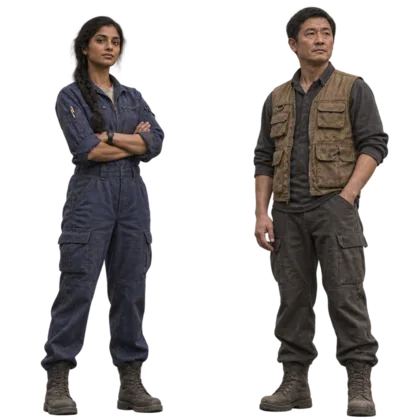
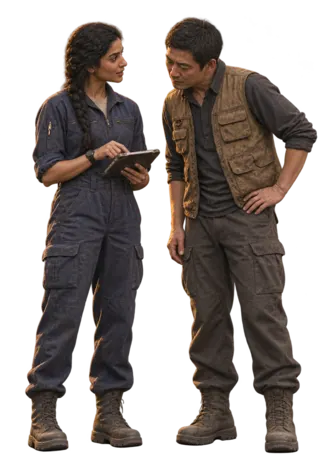
Stage conversational crew and simplify the Hangar loadout

diff --git a/index.html b/index.html
@@ -12,7 +12,7 @@
 <link rel="icon" type="image/png" href="rift-192.png">
 <title>Rift Runner</title>
 <meta name="description" content="Pilot a low hovercraft through a single test arena. Push cones and try the manual blaster.">
-<link rel="stylesheet" href="style.css?v=261">
+<link rel="stylesheet" href="style.css?v=262">
 <script src="./sound-activation.js?v=1" defer></script>
 <script src="blaster-sfx.js" defer></script>
 <script src="ballistic-sfx.js?v=13" defer></script>
@@ -371,20 +371,9 @@
  <button type="button" id="hangar-preview-select" class="fit-shop-link" hidden>Select fighter</button>
  <a id="hangar-preview-rent" class="fit-shop-link" hidden>Rent for Free Flight</a>
 </div>
-<details class="hangar-fighter-concepts" id="hangar-fighter-concepts">
- <summary>Fighter concepts</summary>
- <p>Buy either fighter at the Carrier Shop. Each keeps its own fittings and repair state.</p>
- <figure>
-  <img src="./stocky-light-fighter-concept.webp" width="960" height="320" alt="A compact, broad-shouldered light fighter with a recessed cockpit" loading="lazy" decoding="async">
-  <figcaption>Stocky-2 Light Fighter</figcaption>
- </figure>
- <figure>
-  <img src="./bastion-9-fleet-fighter-concept.webp" width="960" height="320" alt="The Bastion-2 light fleet fighter with a twin-boom frame" loading="lazy" decoding="async">
-  <figcaption>Bastion-2 Fleet Fighter</figcaption>
- </figure>
-</details>
-<section class="hangar-loadout" id="hangar-player-loadout" aria-labelledby="loadout-title" hidden>
-<div class="loadout-head"><h3 id="loadout-title">Loadout<small id="fit-hull-stat"></small><small id="fit-weight-stat"></small></h3><p id="fit-build-status" class="fit-build-status" role="status">Checking flight readiness…</p><div class="fit-service-links"><a class="fit-shop-link" href="./carrier-shop.html" id="fit-shop-link">Carrier Shop</a><button class="fit-repair-link" id="fit-repair-direct" type="button" hidden>Repair hull · Free</button></div><details id="fit-details" class="fit-guide"><summary>Part details</summary><p id="hangar-note" class="hangar-note">Fit an engine, generator, reserve cell and primary weapon to launch. Secondary weapon and shield are optional. Heavier fits turn and brake more slowly.</p><p id="fit-gimbal-note" class="hangar-note" hidden>Two Sparrow S2s come fitted from the factory. The Size 2 wing mounts can swivel toward your aim.</p></details></div>
+<details class="hangar-loadout" id="hangar-player-loadout" hidden>
+<summary id="loadout-title">Loadout</summary>
+<div class="loadout-head"><h3><small id="fit-hull-stat"></small><small id="fit-weight-stat"></small></h3><p id="fit-build-status" class="fit-build-status" role="status">Checking flight readiness…</p><div class="fit-service-links"><a class="fit-shop-link" href="./carrier-shop.html" id="fit-shop-link">Carrier Shop</a><button class="fit-repair-link" id="fit-repair-direct" type="button" hidden>Repair hull · Free</button></div><details id="fit-details" class="fit-guide"><summary>Part details</summary><p id="hangar-note" class="hangar-note">Fit an engine, generator, reserve cell and primary weapon to launch. Secondary weapon and shield are optional. Heavier fits turn and brake more slowly.</p><p id="fit-gimbal-note" class="hangar-note" hidden>Two Sparrow S2s come fitted from the factory. The Size 2 wing mounts can swivel toward your aim.</p></details></div>
 <div class="hangar-slots" id="fighter-fit-grid">
 <div class="fit-slot"><label class="fit-name" for="fit-shield"><span aria-hidden="true">01</span> Shield</label><select id="fit-shield" aria-describedby="fit-shield-stat"><option value="" selected>None</option><option id="fit-aegis-option" value="aegis-s3" disabled>Aegis S-3 Shield Generator</option></select><small id="fit-shield-stat">Buy Aegis at the Carrier Shop · 200 credits</small></div>
 <div class="fit-slot"><label class="fit-name" for="fit-primary"><span aria-hidden="true">04</span> <span id="fit-primary-label">Primary Size 3 weapon</span></label><select id="fit-primary" aria-describedby="fit-primary-stat"><option value="">None</option><option value="sparrow-s2" hidden>Sparrow S2 Gimbal Laser</option><option value="blaster">Sterling C.32 Laser</option><option value="ballistic">A-Alkine Ballistic Repeater</option><option value="ak77">AK77 Gatling Ballistic</option></select><button id="fit-primary-picture" class="fit-weapon-trigger" type="button" aria-expanded="false" aria-controls="fit-weapon-picker" aria-describedby="fit-primary-stat" hidden><img id="fit-primary-image" alt="" width="96" height="52" decoding="async" hidden><span id="fit-primary-empty" class="fit-weapon-empty" aria-hidden="true" hidden>—</span><span id="fit-primary-title"></span><span class="fit-weapon-chevron" aria-hidden="true">⌄</span></button><small id="fit-primary-stat"></small></div>
@@ -405,7 +394,7 @@
 </div>
 </section>
 <p id="fit-status" class="fit-status" role="status" aria-live="polite">Optional mounts can be left empty.</p>
-</section>
+</details>
  <button id="hangar-loaner" class="hangar-back" type="button" aria-controls="hangar-cockpit" hidden>Test a loaner fighter</button>
 </div>
 <section id="hangar-cockpit" class="hangar-cockpit" aria-labelledby="cockpit-title" hidden>

diff --git a/carrier-crew.css b/carrier-crew.css
@@ -248,39 +248,37 @@ label.formation-tile:hover{border-color:#97cce4}
 .mission-order li.unassigned{color:#adc0c9}
 @media(min-width:460px){.mission-order{columns:2;column-gap:2.75rem}.mission-order li{break-inside:avoid}}
 
-/* Crew feet stay on the open deck. The ambient layer accepts no taps. */
+/* Block the cast on clear floor, separate from the player and touch controls. */
 .crew-ambient{
- position:absolute;z-index:1;inset-inline-start:var(--crew-x,73%);inset-block-end:var(--crew-floor,32%);
- translate:-50% 0;width:clamp(102px,35vw,304px);height:min(34dvh,280px);object-fit:contain;object-position:center bottom;
- filter:drop-shadow(1px 3px 4px #05090b90);pointer-events:none;user-select:none;
+ position:absolute;z-index:1;inset-inline-start:var(--crew-x,72%);inset-block-end:var(--crew-floor,22%);
+ translate:-50% 0;width:min(var(--crew-width,49vw),40dvh,335px);height:auto;object-fit:contain;object-position:center bottom;
+ filter:drop-shadow(2px 4px 5px #05090b8a);pointer-events:none;user-select:none;
 }
-.room[data-room="Crew Berths"]{--crew-x:74%;--crew-floor:38%}
-.room[data-room="Common Room"]{--crew-x:70%;--crew-floor:31%}
-@media(orientation:portrait){
- /* Give this foreground pair more presence while keeping their boot line fixed. */
- .room[data-room="Common Room"]>.crew-ambient{width:clamp(137px,47.25vw,365px)}
-}
-.room[data-room="Galley"]{--crew-x:73%;--crew-floor:39%}
-.room[data-room="Observation Lounge"]{--crew-x:42%;--crew-floor:28%}
-.room[data-room="Refuelling Bay"]{--crew-x:39%;--crew-floor:27%}
-.crew-visitor.control{position:absolute;z-index:2;inset-inline-start:44%;inset-block-end:29%;translate:-50% 0;display:grid;gap:3px;justify-items:center;width:clamp(82px,29vw,224px);padding:2px;border:0;border-radius:9px;background:none;text-align:center;text-shadow:0 2px 3px #000,0 0 7px #000}
-#crew-visitor-sera{inset-inline-start:50%;inset-block-end:29%}
+.room[data-room="Crew Berths"]{--crew-x:75%;--crew-floor:22%;--crew-width:43vw}
+.room[data-room="Common Room"]{--crew-x:72%;--crew-floor:20%;--crew-width:50vw}
+.room[data-room="Galley"]{--crew-x:75%;--crew-floor:22%;--crew-width:43vw}
+.room[data-room="Observation Lounge"]{--crew-x:71%;--crew-floor:18%;--crew-width:51vw}
+.room[data-room="Refuelling Bay"]{--crew-x:69%;--crew-floor:18%;--crew-width:48vw}
+/* The named wing takes the foreground when ready. Don't superimpose another pair. */
+.crew-launch-wing:not([hidden])~.crew-ambient{display:none}
+.crew-visitor.control{position:absolute;z-index:2;inset-inline-start:39%;inset-block-end:23%;translate:-50% 0;display:grid;gap:3px;justify-items:center;width:clamp(78px,24vw,194px);padding:2px;border:0;border-radius:9px;background:none;text-align:center;text-shadow:0 2px 3px #000,0 0 7px #000}
+#crew-visitor-sera{inset-inline-start:40%;inset-block-end:23%}
 .crew-visitor.control:hover{background:none;filter:brightness(1.12)}
-.crew-visitor img{display:block;width:100%;height:clamp(100px,40dvh,318px);object-fit:contain;object-position:center bottom;pointer-events:none}
+.crew-visitor img{display:block;width:100%;height:clamp(110px,36dvh,310px);object-fit:contain;object-position:center bottom;pointer-events:none}
 .crew-visitor span{padding-inline:4px;font-size:clamp(.69rem,2.6vw,.88rem);line-height:1.3}
-/* Wider rooms use the original camera crops, so their foreground floor begins lower. */
+/* Landscape art keeps its own floor line and separates named actors. */
 @media(orientation:landscape){
- .room[data-room="Crew Berths"]{--crew-x:62%;--crew-floor:22%}
- .room[data-room="Common Room"]{--crew-x:71%;--crew-floor:19%}
- .room[data-room="Galley"]{--crew-x:42%;--crew-floor:14%}
- .room[data-room="Observation Lounge"]{--crew-x:47%;--crew-floor:25%}
- .room[data-room="Refuelling Bay"]{--crew-x:29%;--crew-floor:19%}
- .crew-visitor.control{inset-inline-start:47%;inset-block-end:25%}
+ .crew-ambient{width:min(34dvh,28vw,280px)}
+ .room[data-room="Crew Berths"]{--crew-x:70%;--crew-floor:17%}
+ .room[data-room="Common Room"]{--crew-x:74%;--crew-floor:19%}
+ .room[data-room="Galley"]{--crew-x:68%;--crew-floor:15%}
+ .room[data-room="Observation Lounge"]{--crew-x:63%;--crew-floor:15%}
+ .room[data-room="Refuelling Bay"]{--crew-x:57%;--crew-floor:14%}
+ .crew-visitor.control,#crew-visitor-sera{inset-inline-start:44%;inset-block-end:21%}
 }
 @media(max-height:480px) and (orientation:landscape){
- .crew-ambient{width:clamp(76px,18vw,185px)}
- .crew-visitor.control{width:clamp(65px,18vw,145px)}
- .crew-visitor img{height:min(39dvh,176px)}
+ .crew-visitor.control{width:min(20vw,155px)}
+ .crew-visitor img{height:min(37dvh,176px)}
 }
 .visitor-chat>img{display:block;float:inline-end;margin:0 0 8px 12px;object-fit:contain;object-position:center top}
 .visitor-chat>h2{margin:4px 0 8px}

diff --git a/carrier-crew.html b/carrier-crew.html
@@ -7,7 +7,7 @@
 <title>Crew Quarters · Rift Runner</title>
 <link rel="icon" type="image/png" href="./rift-192.png">
 <script src="./vessel-exterior.js?v=260" defer></script>
-<link rel="stylesheet" href="./carrier-crew.css?v=250">
+<link rel="stylesheet" href="./carrier-crew.css?v=251">
 <script src="./pilot-missions.js?v=160" defer></script>
 <script src="./wing-rendezvous.js?v=185" defer></script>
 <link rel="preload" href="./crew-pilot-aya-resting.webp?v=185" as="image">
@@ -27,7 +27,7 @@
    </div>
    <button class="control crew-visitor" id="crew-visitor-ivo" type="button" aria-haspopup="dialog" aria-controls="crew-ivo-chat" hidden><img src="./crew-npc-trainee.webp" alt="" loading="lazy" decoding="async" draggable="false"><span>Ivo Chen</span></button>
    <button class="control mission-board" id="crew-mission-board" type="button" aria-haspopup="dialog" aria-controls="crew-mission-notice">Mission Order</button>
-  <img class="crew-ambient" src="./crew-deck-crew.webp" alt="" aria-hidden="true" loading="lazy" decoding="async" draggable="false">
+  <img class="crew-ambient" src="./crew-deck-crew.webp?v=2" alt="" aria-hidden="true" loading="lazy" decoding="async" draggable="false">
   </section>
   <section class="room" data-room="Common Room" aria-label="Common Room" hidden>
    <div class="room-lower room-lower-common" aria-hidden="true"></div>
@@ -38,7 +38,7 @@
    </div>
    <button class="control class-board" id="crew-classes" type="button" aria-haspopup="dialog" aria-controls="crew-ship-classes">Ship Classes</button>
    <button class="control squadron-board" id="crew-squadron" type="button" aria-haspopup="dialog" aria-controls="crew-formation">Formation Deck</button>
-  <img class="crew-ambient" src="./crew-deck-crew-alt.webp" alt="" aria-hidden="true" loading="lazy" decoding="async" draggable="false">
+  <img class="crew-ambient" src="./crew-deck-crew-alt.webp?v=2" alt="" aria-hidden="true" loading="lazy" decoding="async" draggable="false">
   </section>
   <section class="room" data-room="Galley" aria-label="Galley" hidden>
    <div class="room-lower room-lower-galley" aria-hidden="true"></div>
@@ -47,7 +47,7 @@
     <img class="crew-seated crew-seated-galley" src="./crew-seat-galley.webp" width="400" height="271" alt="" aria-hidden="true" loading="lazy" decoding="async" draggable="false">
    </div>
    <button class="control crew-visitor" id="crew-visitor-sera" type="button" aria-haspopup="dialog" aria-controls="crew-sera-chat" hidden><img src="./crew-npc-range-marshal.webp" alt="" loading="lazy" decoding="async" draggable="false"><span>Sera Voss</span></button>
-  <img class="crew-ambient" src="./crew-deck-crew-alt.webp" alt="" aria-hidden="true" loading="lazy" decoding="async" draggable="false">
+  <img class="crew-ambient" src="./crew-deck-crew-alt.webp?v=2" alt="" aria-hidden="true" loading="lazy" decoding="async" draggable="false">
   </section>
   <section class="room" data-room="Observation Lounge" aria-label="Observation Lounge" hidden>
    <picture class="room-upper room-observation-view">
@@ -55,7 +55,7 @@
     <img src="./crew-observation.webp?v=95" width="1672" height="941" alt="The observation lounge looks out on deep space.">
    </picture>
    <button class="control enemy-board" id="crew-enemies" type="button" aria-haspopup="dialog" aria-controls="crew-enemy-list">Enemy Ships</button>
-  <img class="crew-ambient" src="./crew-deck-crew.webp" alt="" aria-hidden="true" loading="lazy" decoding="async" draggable="false">
+  <img class="crew-ambient" src="./crew-deck-crew.webp?v=2" alt="" aria-hidden="true" loading="lazy" decoding="async" draggable="false">
   </section>
   <section class="room" data-room="Refuelling Bay" aria-label="Refuelling Bay" hidden>
    <img class="room-refuelling-art" src="./crew-refuelling-bay.webp?v=183" loading="lazy" decoding="async" alt="Ground-level view of the Pegasus hangar, with several sea-green Rift-3 fighters parked and connected to refuelling carts beneath an overhead launch hatch.">
@@ -63,7 +63,7 @@
     <img id="crew-launch-wing-art" alt="Leena and Tomas in slate and teal flight suits, helmets in hand." decoding="async" draggable="false">
     <figcaption>Leena &amp; Tomas <span>Ready to launch</span></figcaption>
    </figure>
-  <img class="crew-ambient" src="./crew-deck-crew.webp" alt="" aria-hidden="true" loading="lazy" decoding="async" draggable="false">
+  <img class="crew-ambient" src="./crew-deck-crew.webp?v=2" alt="" aria-hidden="true" loading="lazy" decoding="async" draggable="false">
   </section>
  </div>
  <img class="crew-pilot-portrait" id="crew-pilot-portrait" width="72" height="72" decoding="async" draggable="false" alt="" hidden>

diff --git a/style.css b/style.css
@@ -925,19 +925,11 @@ a.menu-choice{text-decoration:none}
 #capital-dock-hud>#capital-hangar{border-color:#e5c487;background:#55462e;color:#fff0cf}
 #capital-dock-hud>#capital-hangar:hover:not(:disabled){background:#6b5635}
 
-/* Design gallery, separate from the owned-ship selector and board controls. */
-#hangar-ship-choice[hidden]+.hangar-fighter-concepts{display:none}
-.hangar-fighter-concepts{min-width:0;border:1px solid #42615f;border-radius:7px;background:#13242b}
-.hangar-fighter-concepts summary{min-height:44px;align-content:center;padding:7px 12px;cursor:pointer;color:#d7f2e9;font-size:13px;font-weight:750}
-.hangar-fighter-concepts summary:focus-visible{outline:2px solid #f6ff9c;outline-offset:2px}
-.hangar-fighter-concepts>p{margin:0 12px 9px;color:#b3cbc7;font-size:12px}
-.hangar-fighter-concepts figure{margin:0 9px 8px;overflow:hidden;border:1px solid #344e55;border-radius:5px}
-.hangar-fighter-concepts img{display:block;width:100%;height:auto}
-.hangar-fighter-concepts figcaption{padding:6px 8px;color:#d9f0e9;font-size:12px;font-weight:750}
-@media(min-width:920px){
- #player-hangar-view[data-fighter=repaired]>.hangar-fighter-concepts{grid-column:1}
-}
-
+/* One collapsed control keeps the parts off the Hangar until requested. */
+.hangar-loadout>summary{min-height:44px;align-content:center;padding:7px 12px;cursor:pointer;border:1px solid #42615f;border-radius:7px;background:#13242b;color:#d7f2e9;font-size:14px;font-weight:750}
+.hangar-loadout>summary:focus-visible{outline:2px solid #f6ff9c;outline-offset:2px}
+.hangar-loadout:not([open])>:not(summary){display:none!important}
+.hangar-loadout[open]>summary{margin-block-end:8px}
 /* Optional Custom Mode range: readable without consuming another HUD row. */
 #custom-range{position:absolute;z-index:1;inset-block-start:8px;inset-inline-end:8px;display:grid;justify-items:end;gap:2px}
 #custom-range[hidden]{display:none}
